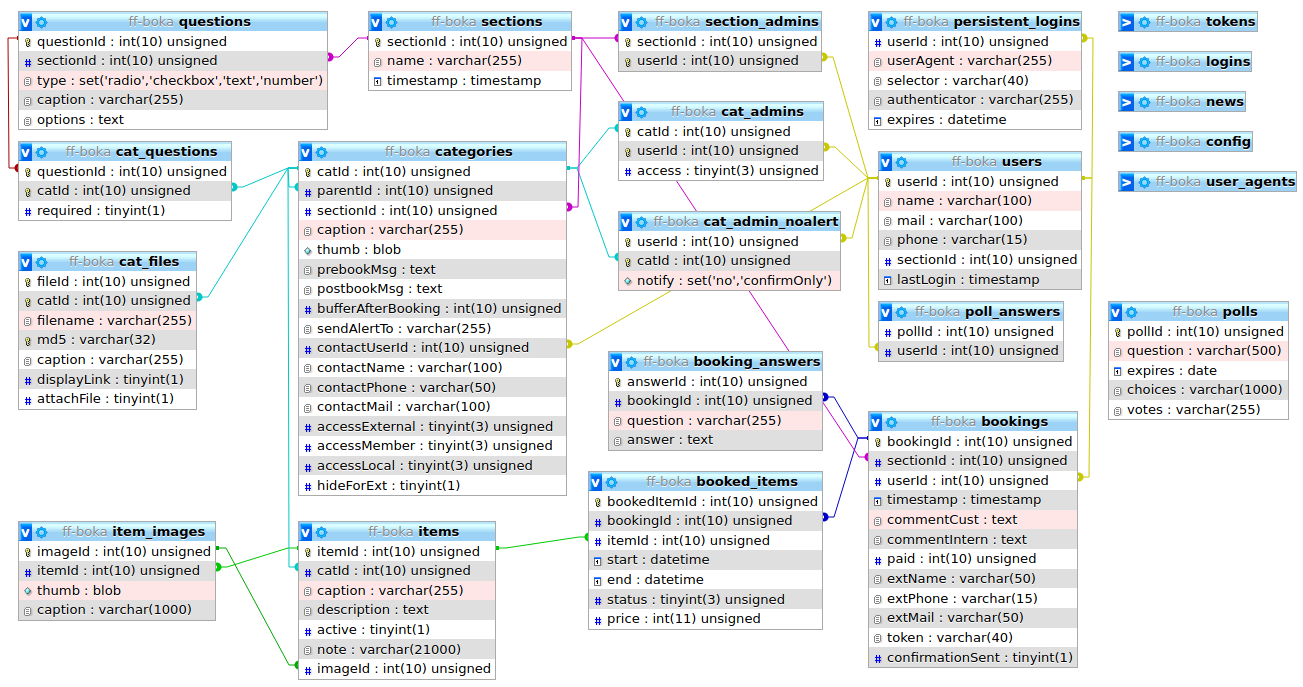
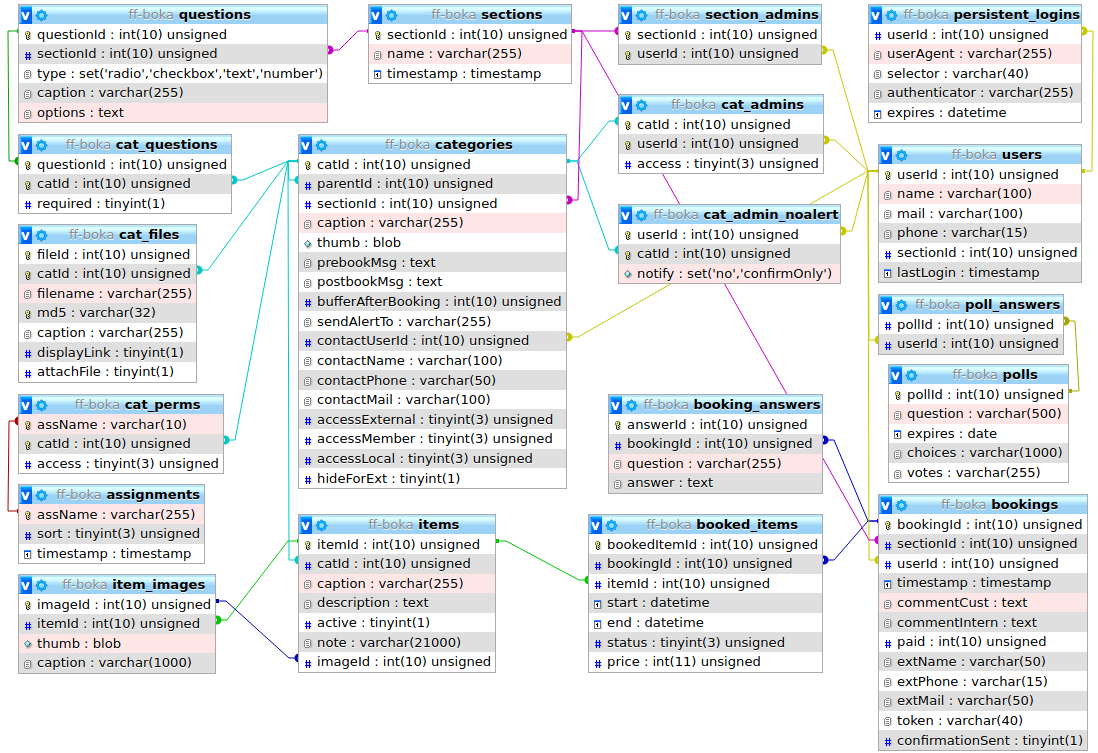
Add assignments table

diff --git a/inc/ffboka/ffboka.php b/inc/ffboka/ffboka.php
@@ -97,7 +97,7 @@ class FFBoka {
      * @param bool $verbose If TRUE, outputs some diagnostic text.
      */
     public function updateSectionList(bool $verbose=FALSE) {
-        if ($verbose) echo "Getting updated section list from API...";
+        if ($verbose) echo "Getting updated section list from API...\n";
         $data = json_decode(file_get_contents(self::$apiFeedSec));
         // We may not remove and re-add entries because that would cause linked records in other
         // tables to be removed. So we need to use ON DUPLICATE KEY clause and keep track of last change date.
@@ -125,22 +125,30 @@ class FFBoka {
     public function updateAssignmentList(bool $verbose=FALSE) {
         if ($verbose) echo "Update assignments from API...\n";
         $data = json_decode(file_get_contents(self::$apiFeedAllAss));
-        // We may not remove and re-add entries because that would cause linked records in other
-        // tables to be removed. So we need to use ON DUPLICATE KEY clause and keep track of last change date.
-        $stmt = self::$db->prepare("INSERT INTO assignments SET ass_name=:name, typeID=:typeID, type_name=:type_name, timestamp=NULL ON DUPLICATE KEY UPDATE timestamp=NULL");
+        // We may not remove and re-add entries because that would break linked records in other
+        // tables. So we need to use ON DUPLICATE KEY clause and keep track of last change date.
+        $stmt = self::$db->prepare("INSERT INTO assignments SET assName=:assName, sort=:sort, timestamp=NULL ON DUPLICATE KEY UPDATE timestamp=NULL");
         foreach ($data->results as $ass) {
-            if ($ass->cint_name && $ass->cint_assignment_party_type->value) {
-                if ($verbose) echo "Add assignment {$ass->cint_name} {$ass->cint_assignment_party_type->name}\n";
-                $stmt->execute(array(
-                    ":name"   => $ass->cint_name,
-                    ":typeID" => $ass->cint_assignment_party_type->value,
-                    ":type_name" => $ass->cint_assignment_party_type->name,
-                ));
+            if ($ass->cint_name && $ass->cint_assignment_party_type->value && $ass->cint_assignment_party_type->value == FFBoka::TYPE_SECTION) {
+                if ($verbose) echo "Add assignment {$ass->cint_name}\n";
+                if (!$stmt->execute(array(
+                    ":assName"   => $ass->cint_name,
+                    ":sort" => 2
+                ))) echo "ERROR: Failed to add assignment: ".$stmt->errorInfo()[2];
+                if (strpos($ass->cint_name, ":") !== FALSE) {
+                    // This is a sub-assignment to a principal assignment (e.g. Ledare: Mulle).
+                    // Save the principal assignment with the string left of the colon.
+                    if ($verbose) echo "Add principal assignment for {$ass->cint_name}\n";
+                    if (!$stmt->execute(array(
+                        ":assName"   => substr($ass->cint_name, 0, strpos($ass->cint_name, ":")),
+                        ":sort" => 1
+                    ))) echo "ERROR: Failed to add assignment: " . $stmt->errorInfo()[2];
+                }
             }
         }
         if ($verbose) echo "All assignments are updated.\n";
         if ($verbose) echo "Deleting all (outdated) records not affected by the update...";
-        $numDeleted = self::$db->exec("DELETE FROM assignments WHERE TIMESTAMPDIFF(SECOND, timestamp, NOW())>100");
+        $numDeleted = self::$db->exec("DELETE FROM assignments WHERE sort>0 AND TIMESTAMPDIFF(SECOND, timestamp, NOW())>100");
         if ($verbose) echo "$numDeleted records deleted.\n";
     }
     

diff --git a/cron.php b/cron.php
@@ -47,6 +47,7 @@ if ((int)$row->value < $monday->getTimestamp() && date("N") >= $cfg['cronWeekly'
     echo "Time to execute weekly jobs...\n";
     
     $FF->updateSectionList(TRUE);
+    $FF->updateAssignmentList(TRUE);
 
     // Update incomplete user agents
     fetchUA($db, 5);
@@ -122,14 +123,17 @@ function fetchUA(PDO $db, int $updateIncomplete = 0) {
         echo "Resolving user agents\n";
         $stmt1 = $db->prepare("UPDATE user_agents SET browser=:browser, version=:version, platform=:platform, platform_version=:platform_version, platform_bits=:platform_bits, device_type=:device_type WHERE uaHash=:uaHash");
         while ($row = $stmt->fetch(PDO::FETCH_OBJ)) {
+            echo "Resolving {$row->userAgent}\n";
             $options = array(
                 'http' => array(
+                    'header'  => 'Content-Type: application/x-www-form-urlencoded',
                     'method'  => 'POST',
                     'content' => http_build_query([ 'action' => 'parse', 'format' => 'json', 'string' => $row->userAgent ])
                 )
             );
             $context  = stream_context_create($options);
             $result = file_get_contents('https://user-agents.net/parser', false, $context);
+            print_r($result);
             if ($result !== FALSE) {
                 $result = json_decode($result);
                 $stmt1->execute(array(

diff --git a/inc/version.php b/inc/version.php
@@ -3,4 +3,4 @@
 // is changed. The corresponding SQL code for the change must be stored in
 // resources/db/{$dbVersion}.sql and will be executed on the next invocation of
 // any page.
-$dbVersion = 10;
+$dbVersion = 11;
